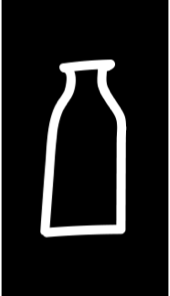
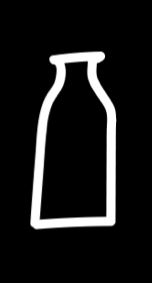
début de l'animation du carousel

Changed region(s): [[0.1842, 0.1696, 0.7632, 0.8198], [0.9737, 0.0, 1.0, 1.0], [0.0, 0.0, 0.0263, 1.0]]

diff --git a/src/scss/modules/carousel.scss b/src/scss/modules/carousel.scss
@@ -1,5 +1,13 @@
 .carousel {
   background-image: url(../img/illustration-bottle.png);
   background-repeat: repeat-x;
-  height: 150px;
+  height: 90px;
+  background-size: contain;
+  background-position: 50px 0;
+}
+
+@media screen and (min-width: 768px) {
+  .carousel {
+    height: 180px;
+  }
 }

diff --git a/src/scss/modules/friends.scss b/src/scss/modules/friends.scss
@@ -6,7 +6,7 @@
 
 @media screen and (min-width: 768px) {
   .friends {
-    height: 850px;
+    height: 800px;
   }
 }
 
